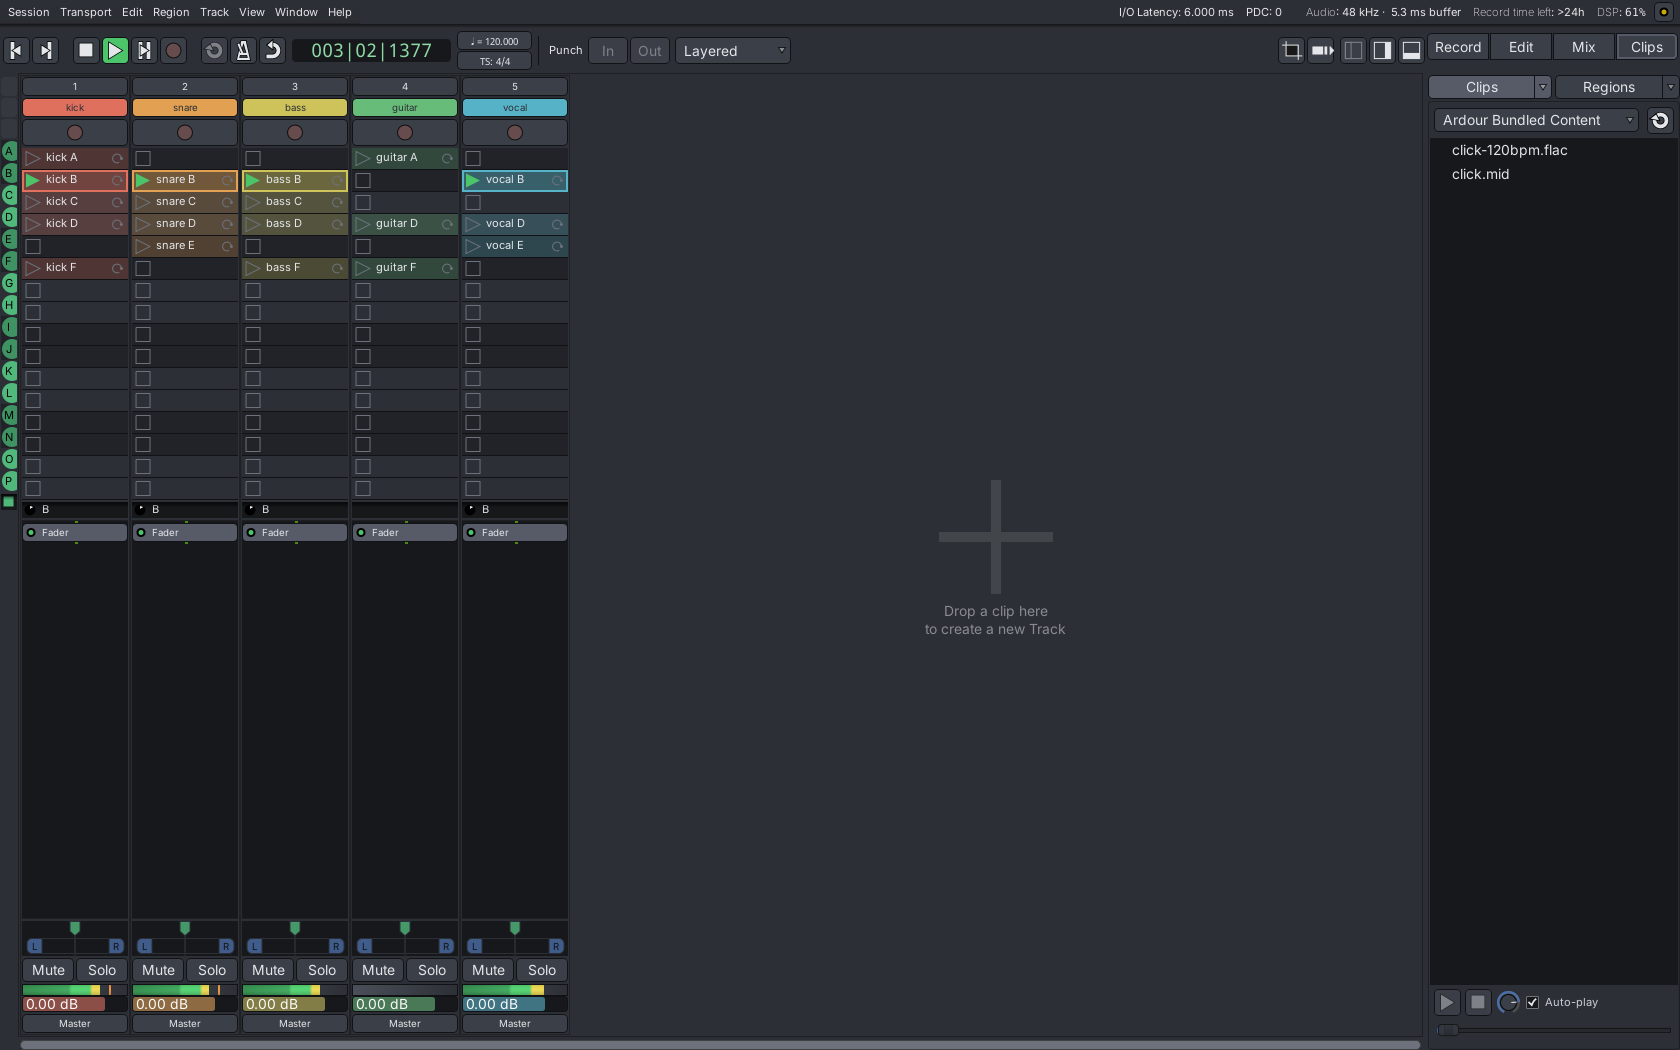
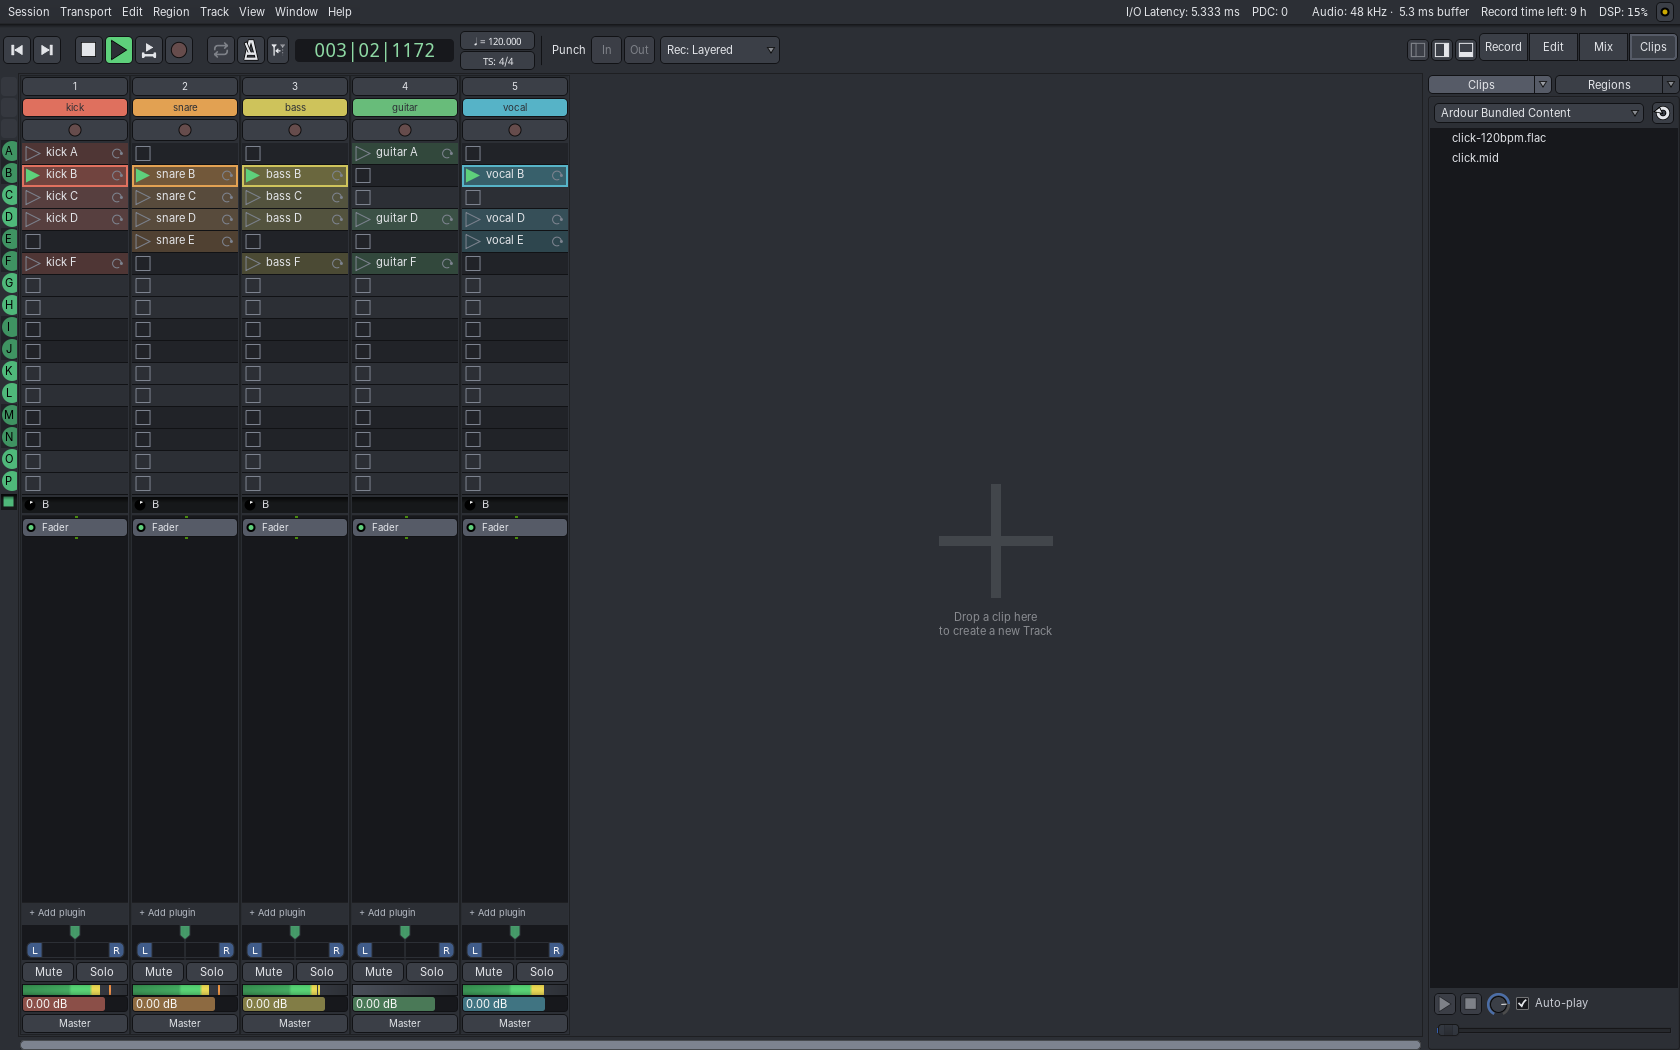
Round 9: screenshots, before/after sheet, README status, handoff notes

diff --git a/ui-drafts/HANDOFF.md b/ui-drafts/HANDOFF.md
@@ -151,6 +151,36 @@ behaviour). The Alt+P shortcut works but isn't shown next to the context-menu it
 Testing tips: drive the app on `:96` with `xdotool`; `ArdourButton::set_icon (NoIcon)`
 also removes the text element (use `set_icon (0, 0)`).
 
+### Round 9 (branch `claude/mixer-round`, not merged)
+
+After a UX best-practice review (Nielsen heuristics, progressive disclosure, WCAG contrast)
+the user said "go ahead with what you think are the prios" and asked for **parallel Sonnet 5.5
+workers**. Setup: one git worktree per task, workers run headless via
+`/work/tools/run-worker.sh` (`claude -p --model claude-sonnet-5-5`), never build, only
+syntax-check single files with `/work/tools/check-cc.sh` (flock-serialized; 2 vCPU / 3 GB);
+the orchestrator merges, builds once (`-j2`, 24 min) and runs QA. Shared rules:
+`/work/tools/AGENT_BRIEF.md`. (These live outside the repo, in `/work/tools`.)
+Result: `screenshots/round9-before-after.png`. `run_static.sh` and `run_gui.sh` pass.
+
+| Area | Files |
+|---|---|
+| Mixer strip tooltips (Iso/Lock, group, RTA, meter point, gain, peak); Comments button forced visible when a comment exists | `mixer_strip.{h,cc}`, `gain_meter.cc` |
+| Default strip visibility without `SoloIsoLock,Comments` (fresh configs) | `ui_config_vars.inc.h` |
+| "+ Add plugin" hint under the processor list (same path as double-click) | `processor_box.{h,cc}` |
+| Mixer scenes: "Mixer scenes" label + tooltip, "Store current mix" slot, left-click on a free slot stores | `mixer_ui.cc` |
+| Track-header fader as slider: new `ArdourFader::TrackHeaderStyle` tweak (horizontal only) | `libs/widgets/ardour_fader.cc`, `fader_widget.{h,cc}`, `gain_meter.{h,cc}`, `route_time_axis.cc` |
+| Editor list headers Cue/On/In/RTA + plain tooltips | `route_list_base.cc`, `editor_routes.cc` |
+| "Rec: Layered" record-mode selector + tooltip | `application_bar.cc` |
+| Command palette `Common/command-palette`, Help menu, Ctrl+Shift+P | `command_palette.{h,cc}` (new), `ardour_ui_ed.cc`, `ardour.menus.in`, `ardour.keys.in`, `wscript` |
+| WCAG contrast check + palette fixes | `tools/ui-qa/check_contrast.py`, `QA.md`, `themes/modern-ardour.colors` |
+
+Not done / ideas: dB value beside the header fader (no room at 14 px); input button's bare
+number "1" (`io_button.cc`); meter-point/RTA row is not a visibility group yet; bottom status
+bar; region cards; mixer plugin cards / send bars. Advisory contrast pairs (stock fader
+fill/groove, button outlines) need rc/drawing changes, not theme colors.
+QA gotcha: source `~/.cache/xroot/env.sh` first, then put `~/.local/bin` first in PATH,
+otherwise `run_gui.sh` starts the unpatched Xvfb and every check fails ("cannot open display").
+
 ## Current state / where it stopped
 
 A working prototype, merged. Iteration loop (draft → approve → implement → build →

diff --git a/ui-drafts/README.md b/ui-drafts/README.md
@@ -86,6 +86,10 @@ Scope agreed: colors + layout, with Inter as the UI font.
 | Top bar (draft 09): single row | Done | transport grouped (locate · stop/play/range/record · loop/click/auto return); tempo/meter beside the clock; Punch In/Out + record mode in one row; pane toggles in one row |
 | Top bar: hide cryptic controls | Done | sync "Int.", shuttle, "VS" hidden by default (Preferences › Appearance › Application Bar › "Display Sync Source and Shuttle/Varispeed Controls"); MIDI panic only in the Transport menu; unassigned Lua slots hidden |
 | Top bar: alerts only when active | Done | "Solo active" / "Auditioning" / "Feedback loop" appear only while relevant |
+| Round 9: mixer plain language | Done | clearer tooltips (Iso/Lock, group, RTA, meter point, gain, peak); solo isolate/safe row and Comments hidden by default (a route with a comment still shows its button); "+ Add plugin" under every processor list; Mixer scenes: "Store current mix", left-click stores — see `screenshots/round9-before-after.png` |
+| Round 9: editor affordances | Done | track-header faders drawn as a slider (groove, translucent track-color fill, handle line); "Rec: Layered" record-mode label; editor list headers Cue / On / In / RTA with plain tooltips |
+| Round 9: command palette | Done | Help › Find Command… (Ctrl+Shift+P): search every action, shows group and shortcut, Enter runs it |
+| Round 9: contrast QA | Done | `tools/ui-qa/check_contrast.py`: WCAG 4.5:1 text / 3:1 non-text for the modern theme (113 pairs); palette tweaks for ruler labels, active icons on green, red pills, panner letters |
 | Round 6: menus and dialogs (from a tour of every menu and window) | Done | readable disabled items; visible empty checkboxes, plain check marks in menus; clipped time fields fixed; drop-downs in Preferences match their labels; highlighted main dialog action, no stock icons on dialog buttons; "Create" in New Session; plainer labels; View menu lists only the visible pages' pane toggles; common region actions at the top of the region menu; larger Locations window; selected regions keep their track tint; muted Recorder lanes; outline star for non-favorite plugins, Insert works without "Add" — see `screenshots/menus-dialogs-before-after.png` |
 
 ## Screenshots and handoff
@@ -97,6 +101,7 @@ Scope agreed: colors + layout, with Inter as the UI font.
 - `screenshots/before-after.png` – the three pages side by side.
 - `screenshots/topbar-before-after.png` – the top bar before/after round 5.
 - `screenshots/menus-dialogs-before-after.png` – menus and dialogs before/after round 6.
+- `screenshots/round9-before-after.png` – mixer, editor, command palette, track fader (round 9); single shots in `screenshots/round9/`.
 
 Rebuild `before-after.png` after refreshing `screenshots/after/`:
 
